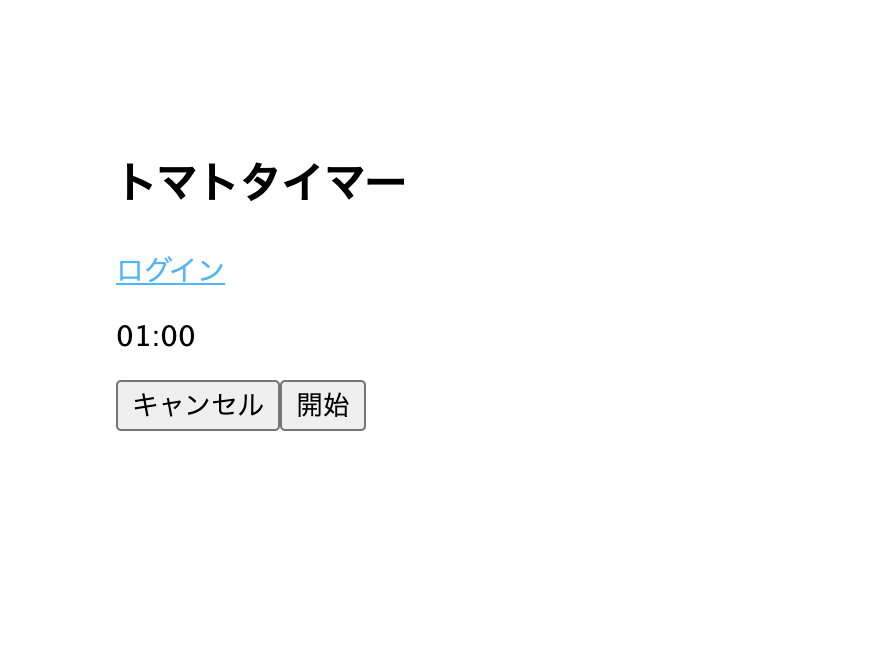
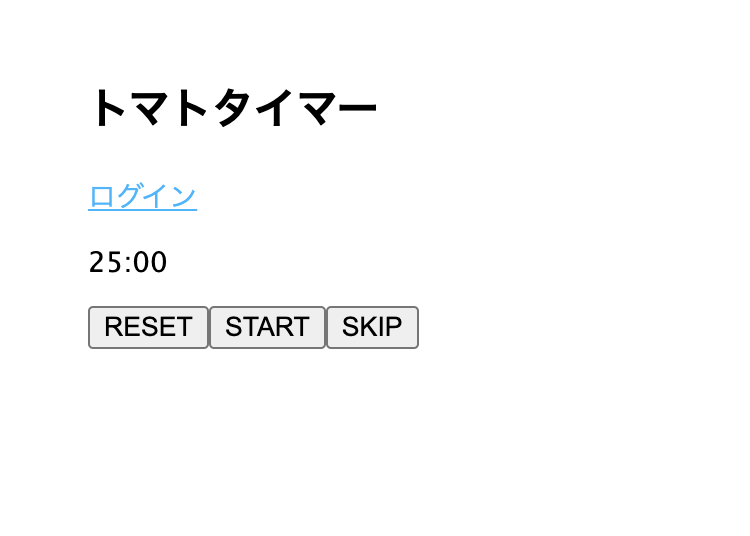
RESETボタンを実装(1周目にreset)

Changed region(s): [[0.1227, 0.5672, 0.552, 0.6866], [0.1227, 0.1493, 0.5213, 0.3284], [0.1227, 0.3284, 0.276, 0.5373]]

diff --git a/public/javascripts/script.js b/public/javascripts/script.js
@@ -1,14 +1,18 @@
 'use strict';
 const timer = $('#timer');
+const resetButton = $('#reset-button');
 let startButton = $('#start-button');
 let stopButton = $('#stop-button');
 let okButton = $('#ok-button');
 const skipButton = $('#skip-button');
+
 let timerId;
 let remainingTime;
 let formattedTime;
+
 const timerSound = new Audio('../sounds/timer-sound.mp3');
 let playPromise;
+
 const workTime = 25; // タイマーの作業時間(分)
 const breakTime = 5; // タイマーの休憩時間(分)
 const longBreakTime = 15; // タイマーの最後の休憩時間(分)
@@ -72,6 +76,11 @@ function timerEnd() {
   timerSound.loop = true;
   playPromise = timerSound.play();
 }
+
+resetButton.click(() => {
+  iterator = totalTimeMap.entries();
+  timerInit();
+});
 
 $('body').on('click', '#start-button', () => {
   startButton = $('#start-button');
